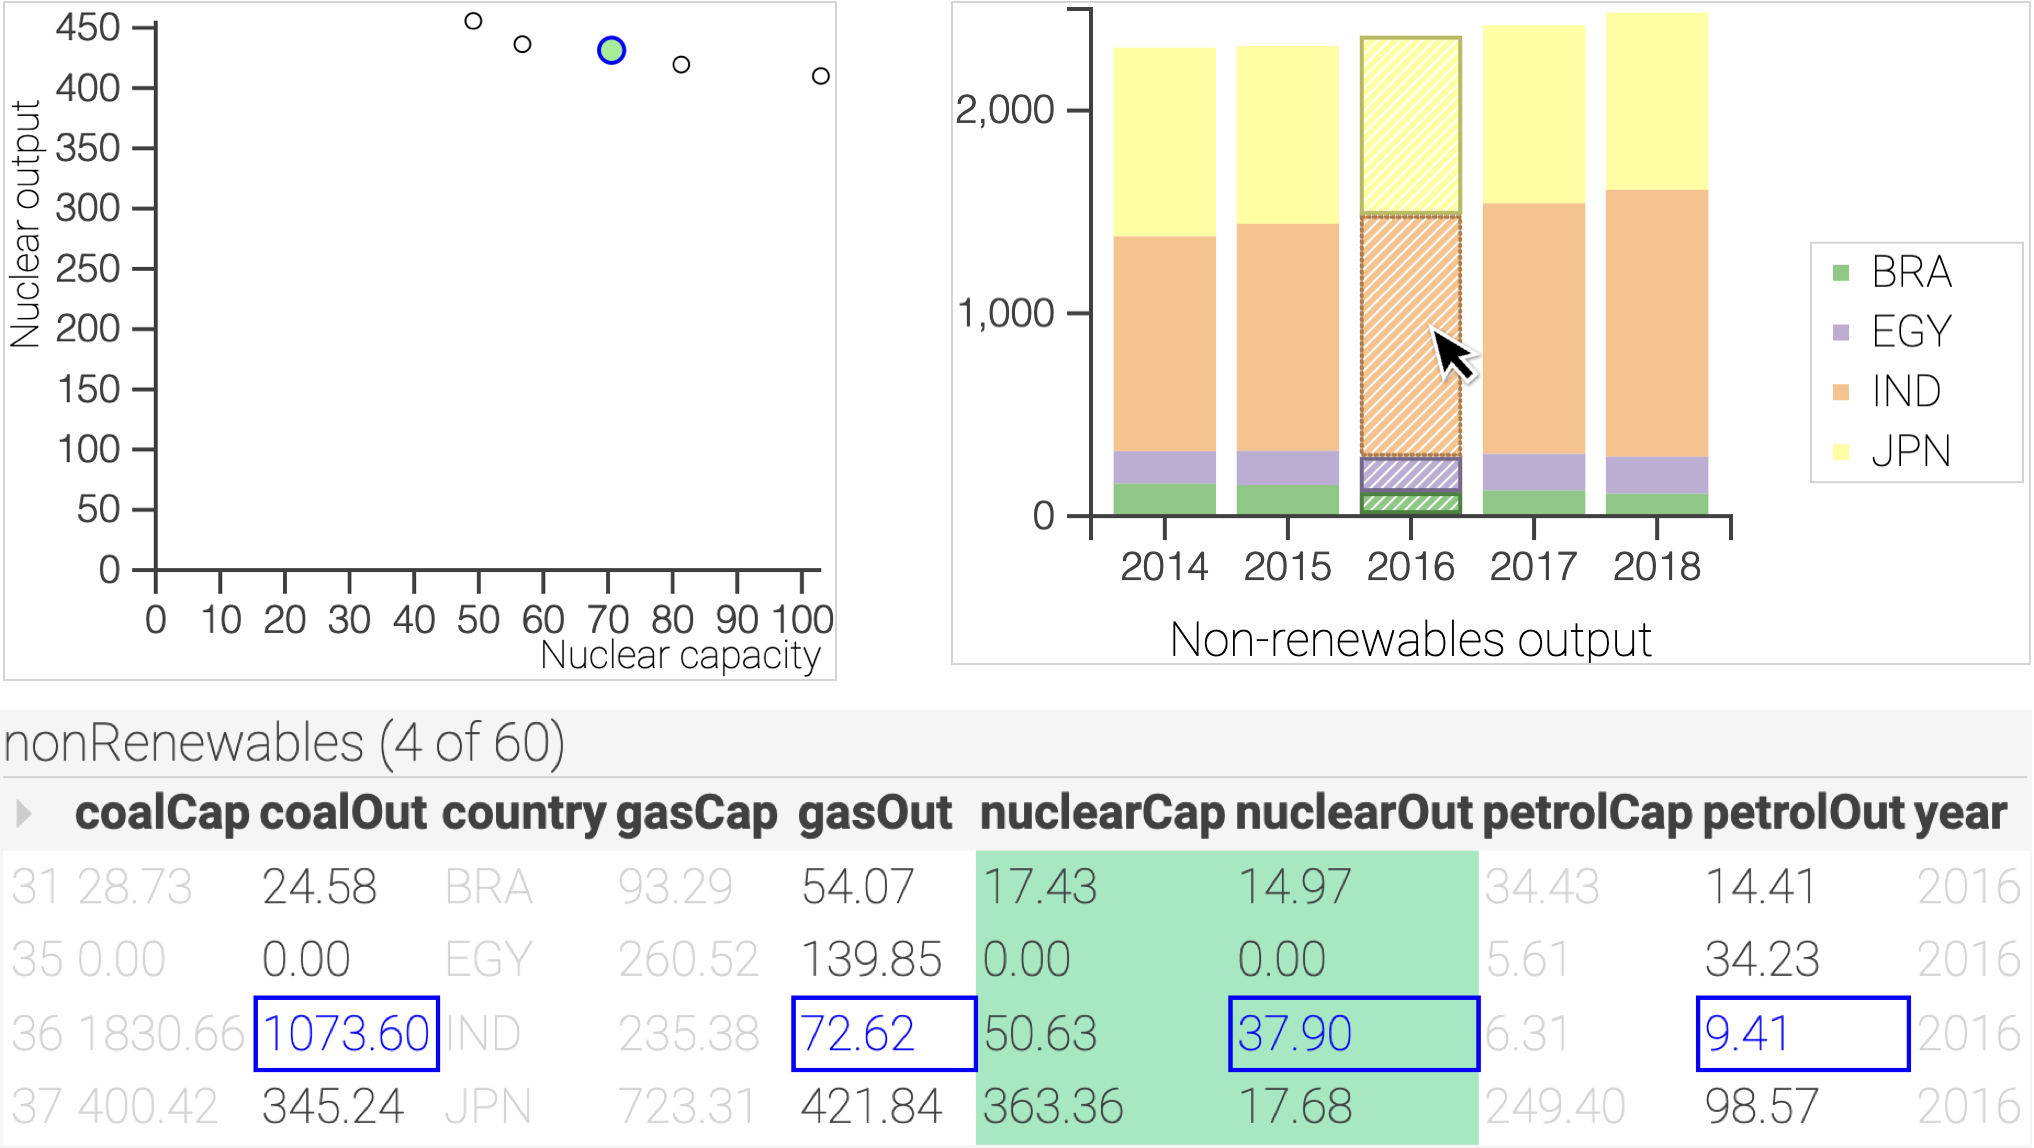
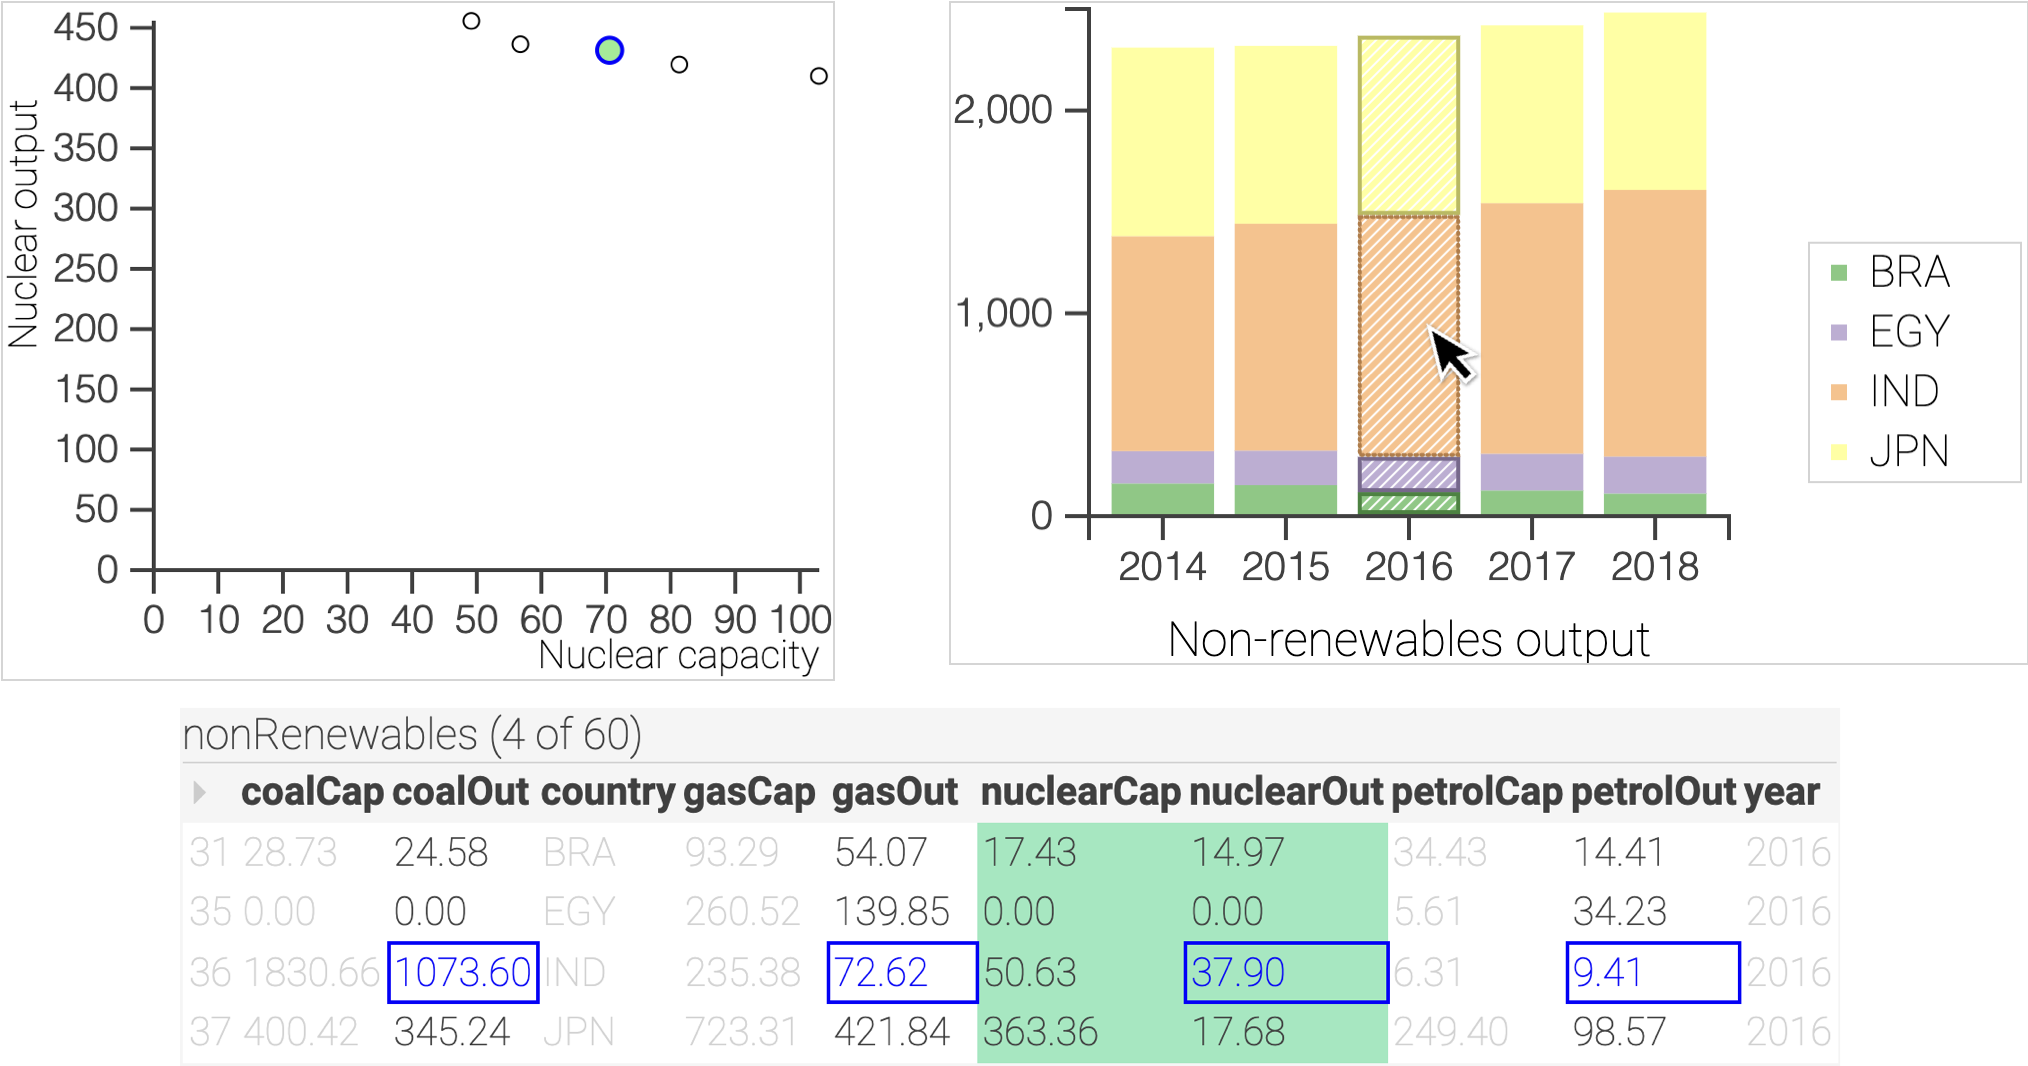
Reinstate prev example for now.

diff --git a/sec/introduction.tex b/sec/introduction.tex
@@ -78,8 +78,8 @@ in some sense ``minimal and sufficient''.
 
 \begin{figure}
    \centering
-   \includegraphics[width=0.9\textwidth]{fig/example/non-renewables.png}
-%   \includegraphics[width=0.8\textwidth]{fig/example/stacked-bar-chart-scatter-plot.png}
+%   \includegraphics[width=0.9\textwidth]{fig/example/non-renewables.png}
+   \includegraphics[width=0.8\textwidth]{fig/example/stacked-bar-chart-scatter-plot.png}
    \vspace{-2mm}
    \caption{Linked outputs, with persistent and transient selections}
    \label{fig:introduction:scatterplot}
